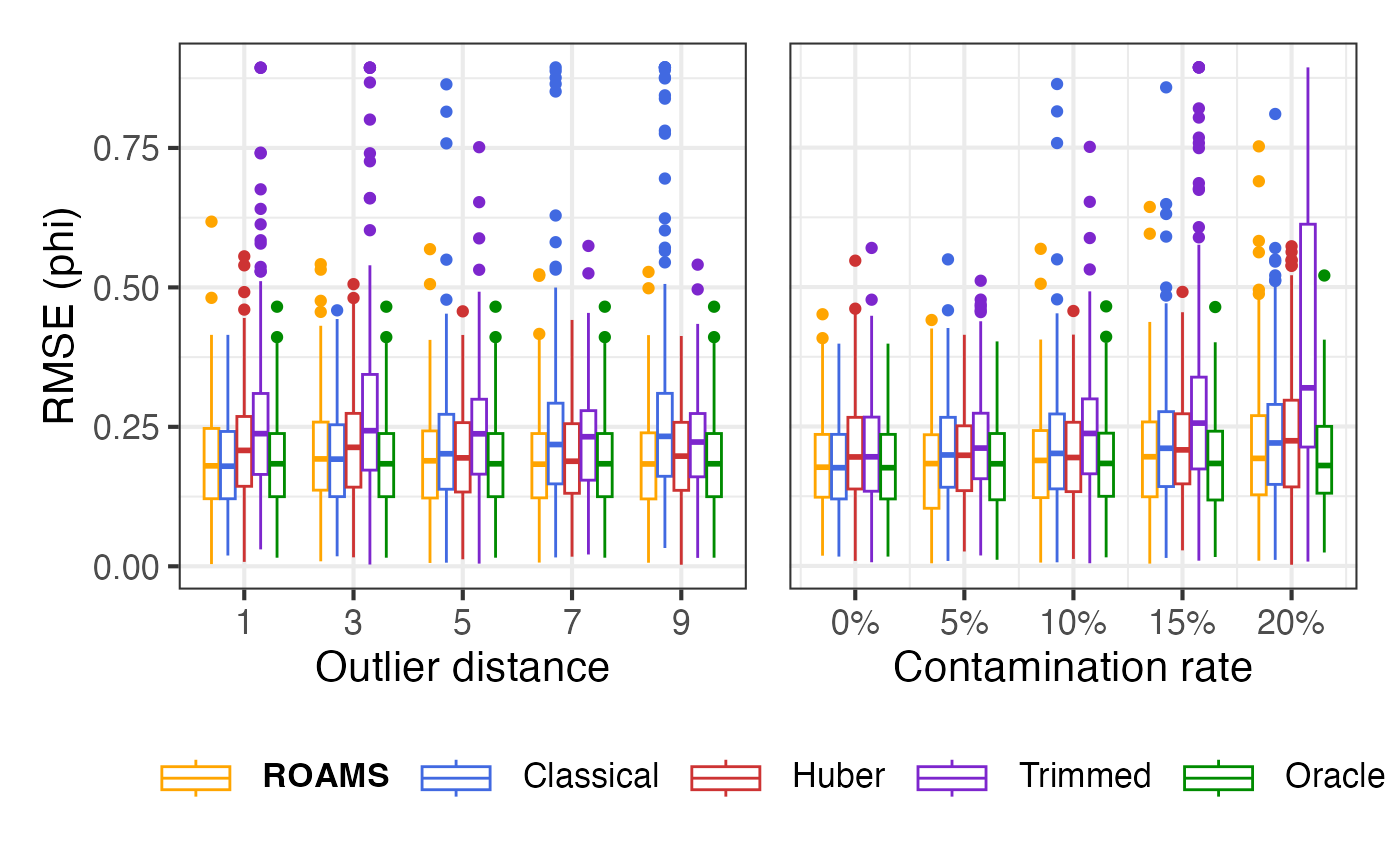
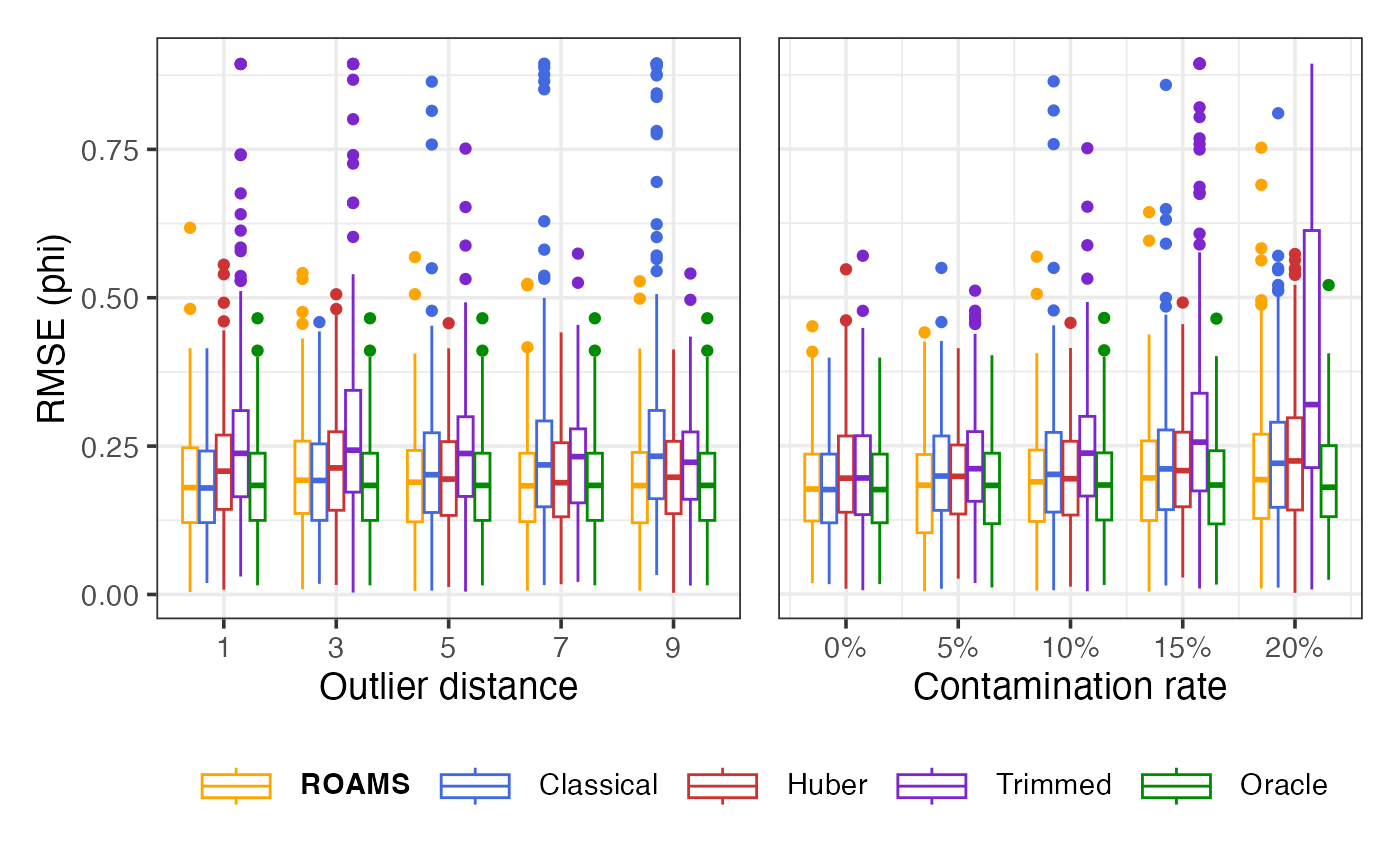
base size 14 instead of 16

diff --git a/docs/articles/sim1.html b/docs/articles/sim1.html
@@ -499,7 +499,7 @@ takes a few minutes to run, so the output is saved to the file
 <span><span class="kw"><a href="https://rdrr.io/r/base/library.html" class="external-link">library</a></span><span class="op">(</span><span class="va"><a href="https://github.com/eclarke/ggbeeswarm" class="external-link">ggbeeswarm</a></span><span class="op">)</span></span>
 <span></span>
 <span><span class="fu"><a href="https://ggplot2.tidyverse.org/reference/theme_get.html" class="external-link">theme_set</a></span><span class="op">(</span></span>
-<span>  <span class="fu"><a href="https://ggplot2.tidyverse.org/reference/ggtheme.html" class="external-link">theme_bw</a></span><span class="op">(</span>base_size <span class="op">=</span> <span class="fl">16</span><span class="op">)</span> <span class="op">+</span> </span>
+<span>  <span class="fu"><a href="https://ggplot2.tidyverse.org/reference/ggtheme.html" class="external-link">theme_bw</a></span><span class="op">(</span>base_size <span class="op">=</span> <span class="fl">14</span><span class="op">)</span> <span class="op">+</span> </span>
 <span>    <span class="fu"><a href="https://ggplot2.tidyverse.org/reference/theme.html" class="external-link">theme</a></span><span class="op">(</span>legend.position <span class="op">=</span> <span class="st">"bottom"</span>,</span>
 <span>          legend.key.width <span class="op">=</span> <span class="fu"><a href="https://rdrr.io/r/grid/unit.html" class="external-link">unit</a></span><span class="op">(</span><span class="fl">1.2</span>, <span class="st">"cm"</span><span class="op">)</span><span class="op">)</span></span>
 <span><span class="op">)</span></span>
@@ -581,7 +581,7 @@ and configuration:</p>
 <span>  <span class="fu"><a href="https://ggplot2.tidyverse.org/reference/scale_manual.html" class="external-link">scale_linetype_manual</a></span><span class="op">(</span></span>
 <span>    values <span class="op">=</span> <span class="fu"><a href="https://rdrr.io/r/stats/setNames.html" class="external-link">setNames</a></span><span class="op">(</span><span class="fu"><a href="https://rdrr.io/r/base/c.html" class="external-link">c</a></span><span class="op">(</span><span class="st">"solid"</span>, <span class="st">"dashed"</span>, <span class="st">"dotted"</span>, <span class="st">"dotdash"</span><span class="op">)</span>, <span class="va">settings</span><span class="op">)</span>,</span>
 <span>    labels <span class="op">=</span> <span class="fu"><a href="https://rdrr.io/r/stats/setNames.html" class="external-link">setNames</a></span><span class="op">(</span><span class="va">labels_settings</span>, <span class="va">settings</span><span class="op">)</span><span class="op">)</span> <span class="op">+</span></span>
-<span>  <span class="fu"><a href="https://ggplot2.tidyverse.org/reference/guides.html" class="external-link">guides</a></span><span class="op">(</span>color <span class="op">=</span> <span class="fu"><a href="https://ggplot2.tidyverse.org/reference/guide_legend.html" class="external-link">guide_legend</a></span><span class="op">(</span>ncol <span class="op">=</span> <span class="fl">2</span>, byrow <span class="op">=</span> <span class="cn">TRUE</span><span class="op">)</span><span class="op">)</span></span>
+<span>  <span class="fu"><a href="https://ggplot2.tidyverse.org/reference/guides.html" class="external-link">guides</a></span><span class="op">(</span>colour <span class="op">=</span> <span class="fu"><a href="https://ggplot2.tidyverse.org/reference/guide_legend.html" class="external-link">guide_legend</a></span><span class="op">(</span>ncol <span class="op">=</span> <span class="fl">2</span>, byrow <span class="op">=</span> <span class="cn">TRUE</span><span class="op">)</span><span class="op">)</span></span>
 <span></span>
 <span><span class="va">p2</span> <span class="op">=</span> <span class="va">eval_metrics_study1</span> <span class="op">|&gt;</span> </span>
 <span>  <span class="fu"><a href="https://dplyr.tidyverse.org/reference/filter.html" class="external-link">filter</a></span><span class="op">(</span><span class="va">setting</span> <span class="op">==</span> <span class="st">"multi-level"</span><span class="op">)</span> <span class="op">|&gt;</span></span>
@@ -605,7 +605,7 @@ and configuration:</p>
 <span>  <span class="fu"><a href="https://ggplot2.tidyverse.org/reference/labs.html" class="external-link">labs</a></span><span class="op">(</span>x <span class="op">=</span> <span class="st">"n"</span>, y <span class="op">=</span> <span class="cn">NULL</span>, </span>
 <span>       colour <span class="op">=</span> <span class="cn">NULL</span>, linetype <span class="op">=</span> <span class="cn">NULL</span><span class="op">)</span> <span class="op">+</span></span>
 <span>  <span class="fu"><a href="https://ggplot2.tidyverse.org/reference/scale_continuous.html" class="external-link">scale_y_continuous</a></span><span class="op">(</span>labels <span class="op">=</span> <span class="fu">scales</span><span class="fu">::</span><span class="va"><a href="https://scales.r-lib.org/reference/percent_format.html" class="external-link">percent</a></span>, limits <span class="op">=</span> <span class="fu"><a href="https://rdrr.io/r/base/c.html" class="external-link">c</a></span><span class="op">(</span><span class="fl">0.5</span>,<span class="fl">1</span><span class="op">)</span><span class="op">)</span> <span class="op">+</span></span>
-<span>  <span class="fu"><a href="https://ggplot2.tidyverse.org/reference/guides.html" class="external-link">guides</a></span><span class="op">(</span>color <span class="op">=</span> <span class="fu"><a href="https://ggplot2.tidyverse.org/reference/guide_legend.html" class="external-link">guide_legend</a></span><span class="op">(</span>ncol <span class="op">=</span> <span class="fl">2</span>, byrow <span class="op">=</span> <span class="cn">TRUE</span><span class="op">)</span><span class="op">)</span></span>
+<span>  <span class="fu"><a href="https://ggplot2.tidyverse.org/reference/guides.html" class="external-link">guides</a></span><span class="op">(</span>colour <span class="op">=</span> <span class="fu"><a href="https://ggplot2.tidyverse.org/reference/guide_legend.html" class="external-link">guide_legend</a></span><span class="op">(</span>ncol <span class="op">=</span> <span class="fl">2</span>, byrow <span class="op">=</span> <span class="cn">TRUE</span><span class="op">)</span><span class="op">)</span></span>
 <span></span>
 <span><span class="va">p1</span> <span class="op">+</span> <span class="va">p2</span> <span class="op">+</span> <span class="fu"><a href="https://patchwork.data-imaginist.com/reference/plot_layout.html" class="external-link">plot_layout</a></span><span class="op">(</span>ncol <span class="op">=</span> <span class="fl">2</span>, widths <span class="op">=</span> <span class="fu"><a href="https://rdrr.io/r/base/c.html" class="external-link">c</a></span><span class="op">(</span><span class="fl">2</span>,<span class="fl">1</span><span class="op">)</span>, axes <span class="op">=</span> <span class="st">"collect"</span><span class="op">)</span></span></code></pre></div>
 <p><img src="sim1_files/figure-html/unnamed-chunk-5-1.png" width="700"></p>

diff --git a/docs/articles/sim2.html b/docs/articles/sim2.html
@@ -478,7 +478,7 @@ takes a few minutes to run, so the output is saved to the file
 <span><span class="kw"><a href="https://rdrr.io/r/base/library.html" class="external-link">library</a></span><span class="op">(</span><span class="va"><a href="https://github.com/eclarke/ggbeeswarm" class="external-link">ggbeeswarm</a></span><span class="op">)</span></span>
 <span></span>
 <span><span class="fu"><a href="https://ggplot2.tidyverse.org/reference/theme_get.html" class="external-link">theme_set</a></span><span class="op">(</span></span>
-<span>  <span class="fu"><a href="https://ggplot2.tidyverse.org/reference/ggtheme.html" class="external-link">theme_bw</a></span><span class="op">(</span>base_size <span class="op">=</span> <span class="fl">16</span><span class="op">)</span> <span class="op">+</span> </span>
+<span>  <span class="fu"><a href="https://ggplot2.tidyverse.org/reference/ggtheme.html" class="external-link">theme_bw</a></span><span class="op">(</span>base_size <span class="op">=</span> <span class="fl">14</span><span class="op">)</span> <span class="op">+</span> </span>
 <span>    <span class="fu"><a href="https://ggplot2.tidyverse.org/reference/theme.html" class="external-link">theme</a></span><span class="op">(</span>legend.position <span class="op">=</span> <span class="st">"bottom"</span>,</span>
 <span>          legend.key.width <span class="op">=</span> <span class="fu"><a href="https://rdrr.io/r/grid/unit.html" class="external-link">unit</a></span><span class="op">(</span><span class="fl">1.2</span>, <span class="st">"cm"</span><span class="op">)</span><span class="op">)</span></span>
 <span><span class="op">)</span></span>

diff --git a/docs/articles/sim3.html b/docs/articles/sim3.html
@@ -229,7 +229,7 @@ takes a few minutes to run, so the output is saved to the file
 <span><span class="kw"><a href="https://rdrr.io/r/base/library.html" class="external-link">library</a></span><span class="op">(</span><span class="va"><a href="https://github.com/eclarke/ggbeeswarm" class="external-link">ggbeeswarm</a></span><span class="op">)</span></span>
 <span></span>
 <span><span class="fu"><a href="https://ggplot2.tidyverse.org/reference/theme_get.html" class="external-link">theme_set</a></span><span class="op">(</span></span>
-<span>  <span class="fu"><a href="https://ggplot2.tidyverse.org/reference/ggtheme.html" class="external-link">theme_bw</a></span><span class="op">(</span>base_size <span class="op">=</span> <span class="fl">16</span><span class="op">)</span> <span class="op">+</span> </span>
+<span>  <span class="fu"><a href="https://ggplot2.tidyverse.org/reference/ggtheme.html" class="external-link">theme_bw</a></span><span class="op">(</span>base_size <span class="op">=</span> <span class="fl">14</span><span class="op">)</span> <span class="op">+</span> </span>
 <span>    <span class="fu"><a href="https://ggplot2.tidyverse.org/reference/theme.html" class="external-link">theme</a></span><span class="op">(</span>legend.position <span class="op">=</span> <span class="st">"bottom"</span>,</span>
 <span>          legend.key.width <span class="op">=</span> <span class="fu"><a href="https://rdrr.io/r/grid/unit.html" class="external-link">unit</a></span><span class="op">(</span><span class="fl">1.2</span>, <span class="st">"cm"</span><span class="op">)</span><span class="op">)</span></span>
 <span><span class="op">)</span></span>

diff --git a/docs/articles/introduction.html b/docs/articles/introduction.html
@@ -214,7 +214,7 @@ al. (2025)</span>.</p>
 <span><span class="kw"><a href="https://rdrr.io/r/base/library.html" class="external-link">library</a></span><span class="op">(</span><span class="va"><a href="https://patchwork.data-imaginist.com" class="external-link">patchwork</a></span><span class="op">)</span></span>
 <span></span>
 <span><span class="fu"><a href="https://ggplot2.tidyverse.org/reference/theme_get.html" class="external-link">theme_set</a></span><span class="op">(</span></span>
-<span>  <span class="fu"><a href="https://ggplot2.tidyverse.org/reference/ggtheme.html" class="external-link">theme_bw</a></span><span class="op">(</span>base_size <span class="op">=</span> <span class="fl">16</span><span class="op">)</span> <span class="op">+</span> </span>
+<span>  <span class="fu"><a href="https://ggplot2.tidyverse.org/reference/ggtheme.html" class="external-link">theme_bw</a></span><span class="op">(</span>base_size <span class="op">=</span> <span class="fl">14</span><span class="op">)</span> <span class="op">+</span> </span>
 <span>    <span class="fu"><a href="https://ggplot2.tidyverse.org/reference/theme.html" class="external-link">theme</a></span><span class="op">(</span>legend.position <span class="op">=</span> <span class="st">"bottom"</span>,</span>
 <span>          legend.key.width <span class="op">=</span> <span class="fu"><a href="https://rdrr.io/r/grid/unit.html" class="external-link">unit</a></span><span class="op">(</span><span class="fl">1.2</span>, <span class="st">"cm"</span><span class="op">)</span><span class="op">)</span></span>
 <span><span class="op">)</span></span></code></pre></div>
